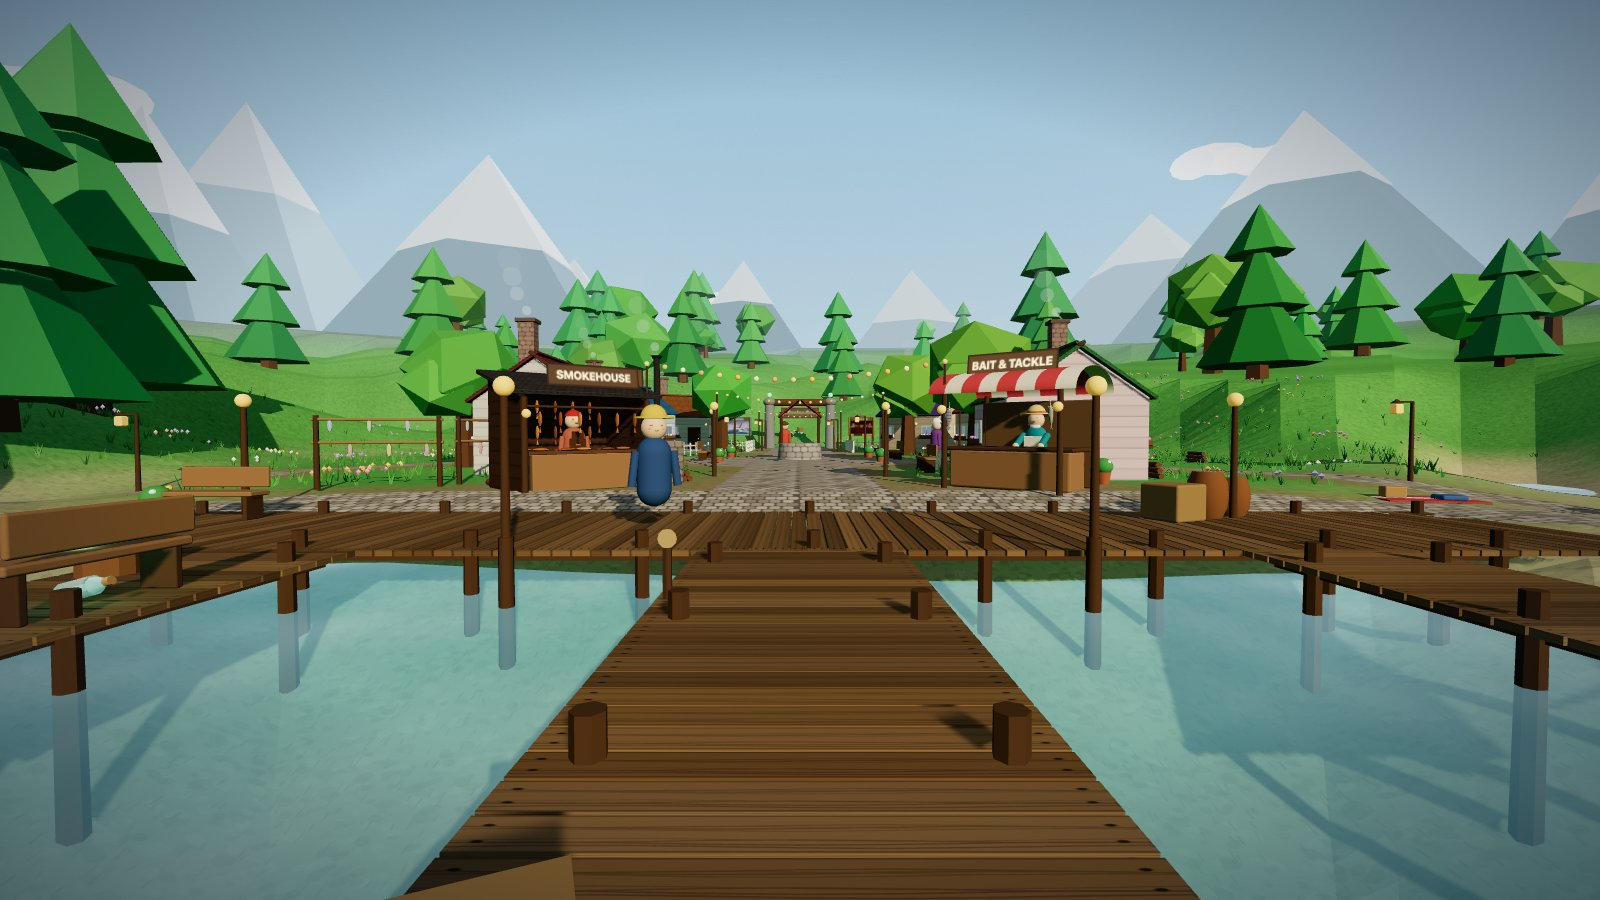
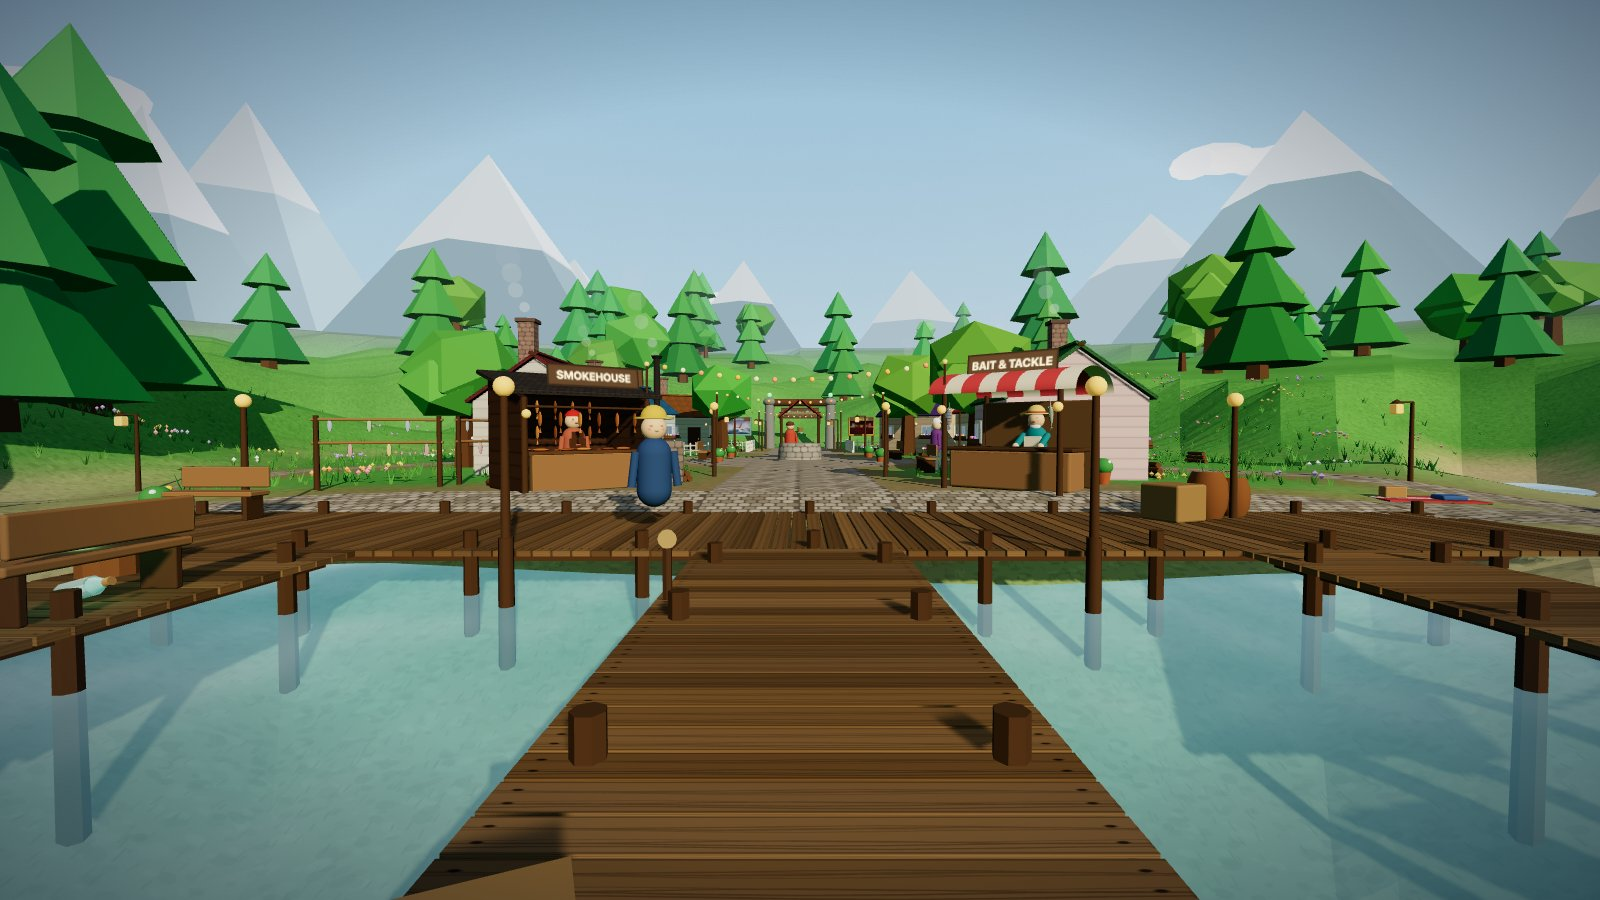
The boards' posts no longer come through their faces: Top Anglers, Thanks, the Furthest Out board and the two posters by the gate are nailed to the front of their posts, which stand behind the frame (BEHIND) instead of in its middle. README harbour and outfits photos re-taken after the wharf and the

diff --git a/src/game/hub.ts b/src/game/hub.ts
@@ -22,6 +22,12 @@ export const rbox = (w: number, h: number, d: number, color: number, r = 0.05): 
   return m;
 };
 
+/**
+ * How far behind a board's middle its posts stand: far enough that a post up to 0.1 m thick stays behind the front
+ * of a frame 0.1 m thick or more, where the board's face is.
+ */
+export const BEHIND = 0.14;
+
 export const cyl = (rt: number, rb: number, h: number, color: number, seg = 14): THREE.Mesh => {
   const m = new THREE.Mesh(new THREE.CylinderGeometry(rt, rb, h, seg), mat(color));
   m.castShadow = true;
@@ -327,9 +333,11 @@ export class Hub {
   private buildPoster(gate: Spot, p: Poster): THREE.Vector3 {
     const spot: Spot = { ...this.world(gate, p.side, 0.6), facing: gate.facing } as Spot;
     const g = new THREE.Group();
+    // The posts stand behind the frame (`BEHIND`), which is nailed to their fronts: set in its middle they came
+    // through the picture, being thicker than the frame.
     for (const lx of [-0.95, 0.95]) {
       const post = cyl(0.07, 0.09, 2.6, DARK, 8);
-      post.position.set(lx, 1.3, 0);
+      post.position.set(lx, 1.3, -BEHIND);
       g.add(post);
     }
     const frame = rbox(2.2, 1.55, 0.1, p.frame, 0.04);
@@ -458,9 +466,10 @@ export class Hub {
 
   private buildLeaderboard(spot: Spot): void {
     const g = new THREE.Group();
+    // Posts behind the frame, like the posters' (`BEHIND`), so they don't come through the board's face.
     for (const lx of [-1.0, 1.0]) {
       const post = cyl(0.08, 0.1, 2.8, DARK, 8);
-      post.position.set(lx, 1.4, 0);
+      post.position.set(lx, 1.4, -BEHIND);
       g.add(post);
     }
     const frame = rbox(2.5, 2.0, 0.12, 0x6b4a2b, 0.05);
@@ -544,7 +553,7 @@ export class Hub {
     const g = new THREE.Group();
     for (const lx of [-0.6, 0.6]) {
       const post = cyl(0.06, 0.08, 2.2, DARK, 8);
-      post.position.set(lx, 1.1, 0);
+      post.position.set(lx, 1.1, -BEHIND);
       g.add(post);
     }
     const frame = rbox(1.6, 1.5, 0.1, 0x6b4a2b, 0.04);

diff --git a/src/game/furthestboard.ts b/src/game/furthestboard.ts
@@ -1,7 +1,7 @@
 import * as THREE from 'three';
 import { DIVES_OPEN, ZONES } from '../data/dive';
 import type { FurthestRow } from '../net/protocol';
-import { DARK, ball, cyl, mat, rbox, textPlane } from './hub';
+import { BEHIND, DARK, ball, cyl, mat, rbox, textPlane } from './hub';
 import { glowTag } from './nightglow';
 
 /**
@@ -49,7 +49,8 @@ export class FurthestBoard {
   constructor() {
     for (const lx of BOARD_POSTS) {
       const post = cyl(0.08, 0.1, MID + H / 2 + 0.3, DARK, 8);
-      post.position.set(lx, (MID + H / 2 + 0.3) / 2, -0.02);
+      // Behind the frame, so they don't come through the face (`BEHIND`).
+      post.position.set(lx, (MID + H / 2 + 0.3) / 2, -BEHIND);
       this.group.add(post);
     }
     const frame = rbox(W, H, 0.12, B.frame, 0.05);

diff --git a/DONE.md b/DONE.md
@@ -2,6 +2,11 @@
 
 Finished TODO items, newest first, with what was decided and how each was checked. Add new ones at the top.
 
+- [x] The boards' posts no longer come through their faces (Oscar, 2026-11-13; done 2026-11-13, branch `quay-east-clear`)
+  - Oscar: make sure the posts of the signs aren't clipping through the signs. Top Anglers, Thanks, the Furthest Out board and the two posters by the gate each stood on posts set in the middle of the frame, and the posts are thicker than the frame, so they showed as two stripes down the face
+  - Built: the posts stand 0.14 m behind the frame's middle (`BEHIND`, `src/game/hub.ts`), so each board is nailed to the front of its posts. The cottages' yard signs and the CHARTERS arch were checked and were clear already
+  - Checked: headless views reading Top Anglers, Thanks and the Furthest Out board, with the builds and smoke above
+
 - [x] 🎨 The campfire reworked: a fire ring (Oscar, 2026-11-13; done 2026-11-13, branch `quay-east-clear`)
   - Oscar: fine with a rework of the firepit social area; it should feel designed and specifically placed. Two layouts were built in the game and shown side by side (the same page as Reed's corner); Oscar picked A, the "fire ring", over B, a rectangular terrace with both boards on a straight back wall. No What's new entry (Oscar)
   - Built: a level round cobbled floor (r 2.75) with a kerb of flat stones, the fire in its middle, and a low stone seat wall with a plank top round the hill side that holds the hill back. Top Anglers and Thanks stand just behind the wall as a pair, each 3.6 m from the fire and 24° either side of the line from the pier's end through the fire. The lane comes in through a gate of two 3.3 m posts with lanterns (glow only, no new lights); string lights run from the gate round above the wall. One log seat on the rim; the water side is open. The two benches are gone (`RING`, `ring` in `MapDef`; `buildRing`, `src/game/town.ts`)
@@ -33,7 +38,7 @@ Finished TODO items, newest first, with what was decided and how each was checke
   - Docs: GAME_DESIGN.md's harbour paragraph. README harbour photo re-taken
   - Checked: the build, 592 tests and smoke 113/113; top-down plans before and after (`scripts/map-plan.ts`: the whole town, the quay's west and east ends) and headless views by day (`scripts/map-views.ts --walk`: w05, w08, w09, e01, e02, r01, r02, r06, w10)
   - Play-test: the two corners' sweep and the 2.2 m width; the few-centimetre dip in the road along the deck's edge; the lane's lamp on the hill side; the bench cluster. The ends of both lanes (Reed's beach, the campfire circle) are being reworked separately
-  - Not re-taken: the README outfits photo (its shot timed out again on a busy machine; the deck's rear edge behind the players is the old ragged one)
+  - README outfits photo re-taken later the same day, once the machine was quiet (it timed out while other headless runs were going)
 
 - [x] Three small fixes from a play test: the smoker's turn, taller chimneys, the wardrobe preview sways (Oscar, 2026-11-13; done 2026-11-13, branch `quay-east-clear`)
   - The stone smoker beside the Smokehouse faced the street; its iron door and coals now face the way the shack does, with its firewood on the street side (a small collider added for the stack) and the pipe's smoke moved with it (`buildSmokehouse`, `src/game/town.ts`)

diff --git a/TODO.md b/TODO.md
@@ -53,7 +53,7 @@ Finished items move to [DONE.md](DONE.md).
 
 ### Bugs and tooling
 
-- `npm run screenshots -- outfits` timed out on 2026-11-13 (three tries): it joins eight players one after another, and from the fourth on each page took 30-110 s to load, past puppeteer's 30 s navigation limit in `join` (`scripts/screenshots.ts`). The first three loaded in 1.5-3 s. It passed with the limit raised to 150 s for one run. Oscar's dev server and a browser tab on the game were running at the time, so it may only be the machine; if it happens on a quiet machine, raise the limit or find what slows the later pages
+- `npm run screenshots -- outfits` times out on a busy machine (2026-11-13, three tries while other headless runs and a dev server were going): it joins eight players one after another, and from the fourth on each page took 30-110 s to load, past puppeteer's 30 s navigation limit in `join` (`scripts/screenshots.ts`). It passed the same day on a quiet machine. A longer limit there (150 s worked) would make it sturdier
 - `npm run smoke` only runs on a Mac as is: `CHROME_PATH` defaults to the macOS Chrome and it launches with `--use-angle=metal`. On Linux (cloud sessions) it needs a wrapper that adds `--no-sandbox` and SwiftShader, and even then slow software frames fail ~8 timing checks (townsfolk walks, reel fights, roulette pacing) and the offline checks time out. A Linux-friendly launch and longer timeouts there would let cloud sessions run it.
 - The bench scenes have no high-tier fish, so they can't measure the fish tier effects
 - Out-of-date text found while updating the README (2026-11-13): the campfire tip "the Lucky Wheel in Casino Cove can make a fish worth four times as much" (`CAMP_TIPS`, `src/game/game.ts`; the wheel's best wedge is ×5 now, `WHEEL_WEDGES`), and GAME_DESIGN.md §38.1 (charters) and §38.2 (charter spices, packing) still describe the charters as planned before the rework and the shelved spices
